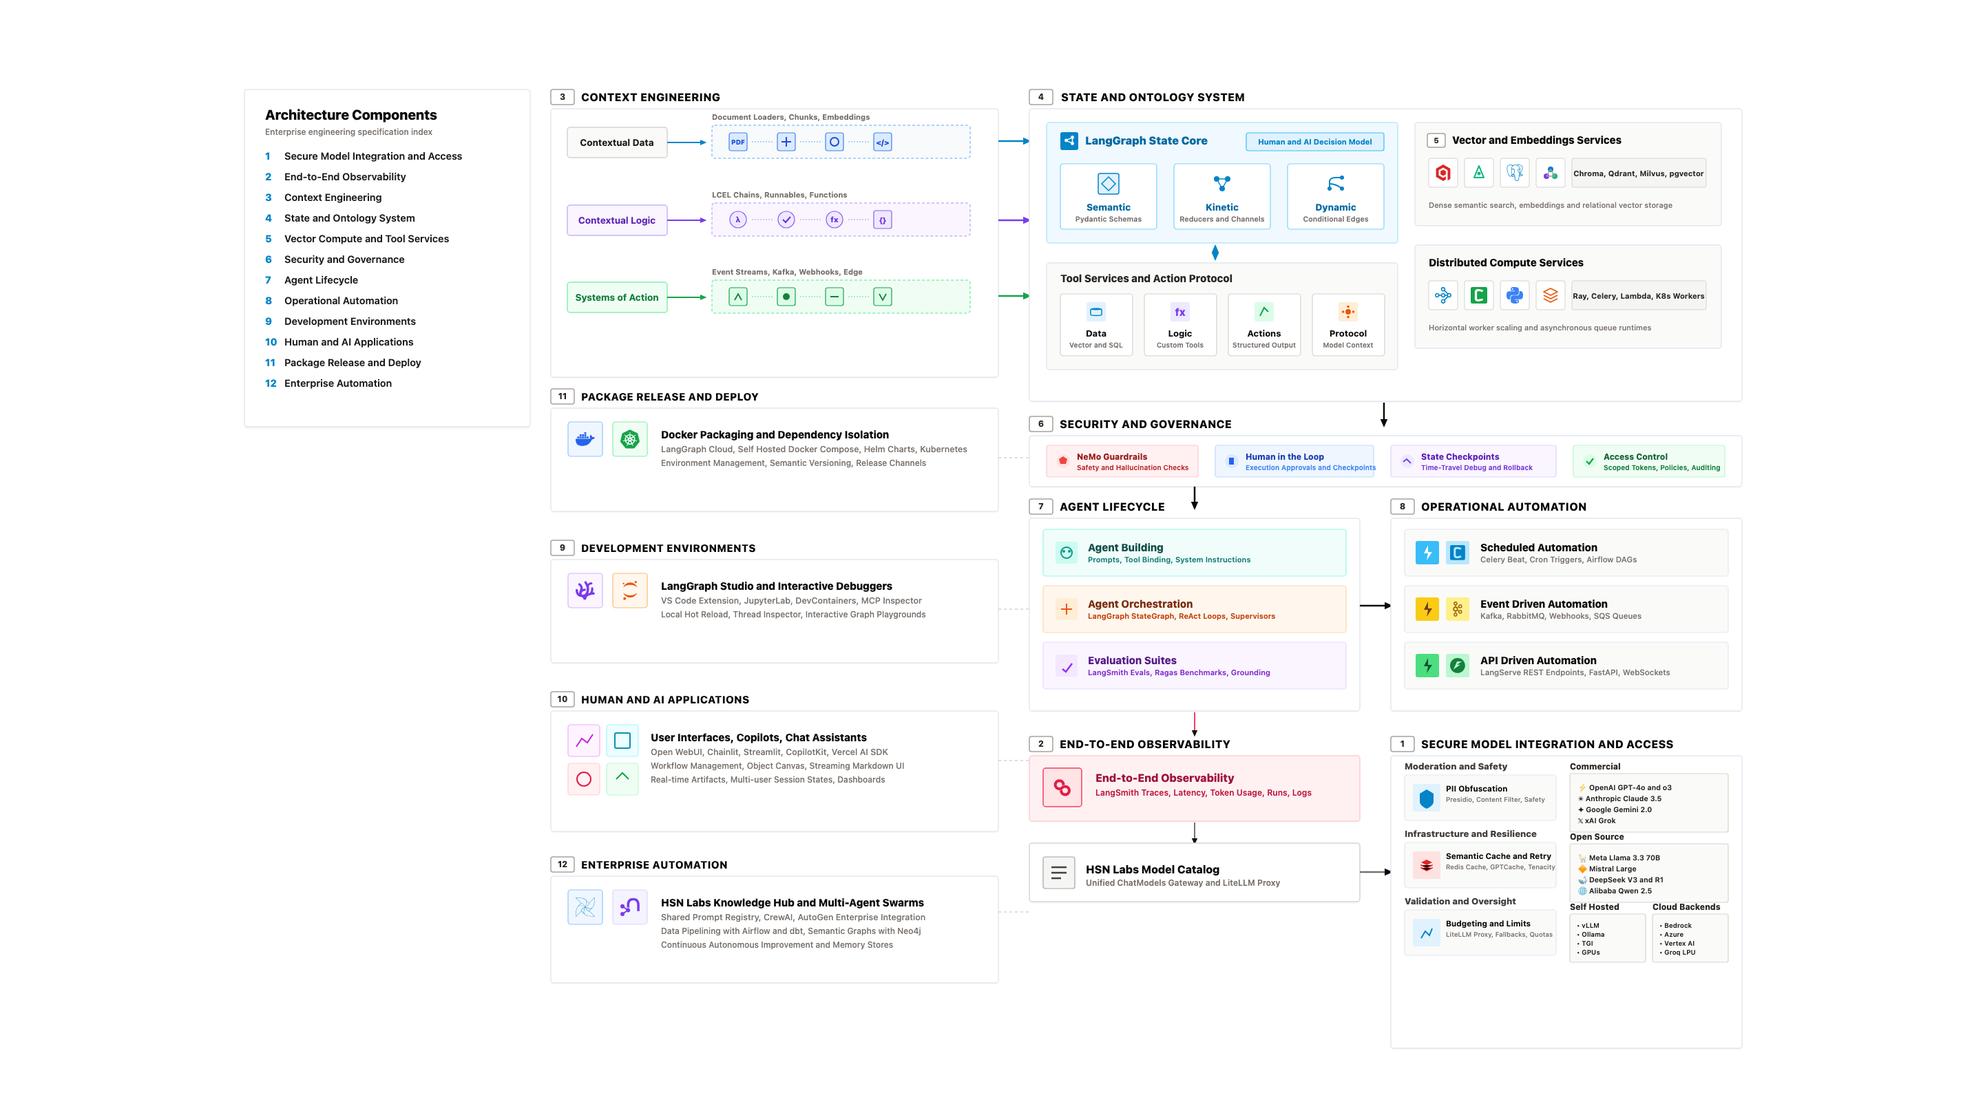
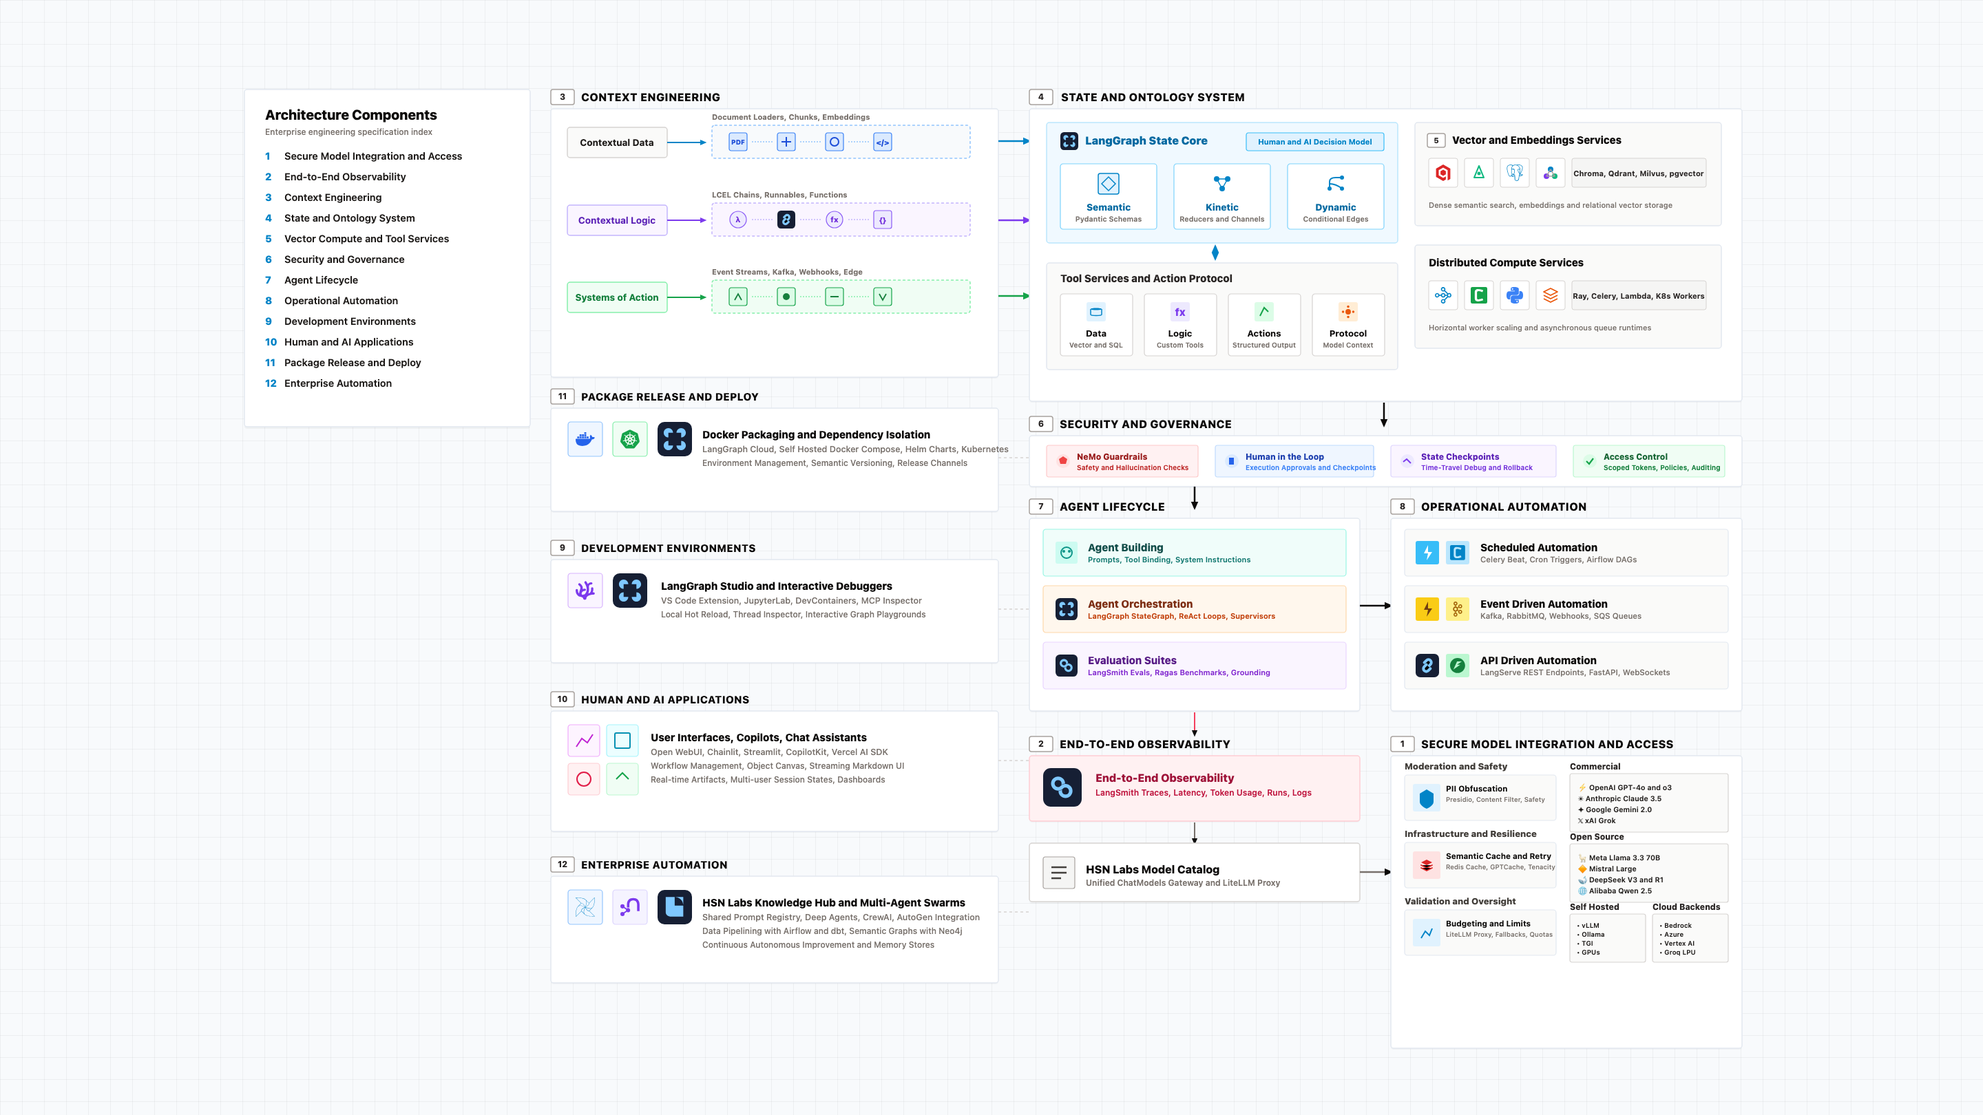
feat(brand): integrate official LangChain, LangGraph, LangSmith & Deep Agents brand assets

diff --git a/architecture.html b/architecture.html
@@ -176,8 +176,11 @@
         </g>
         <line x1="58" y1="26" x2="88" y2="26" stroke="#c4b5fd" stroke-width="1.5" stroke-dasharray="2,2"/>
         <g transform="translate(95, 13)">
-          <circle cx="13" cy="13" r="12" fill="#ede9fe" stroke="#8b5cf6" stroke-width="1.2"/>
-          <path d="M 8 13 L 12 17 L 19 9" fill="none" stroke="#6d28d9" stroke-width="2"/>
+          <rect x="0" y="0" width="26" height="26" rx="5.2" fill="#161F34"/>
+          <g transform="translate(13, 13) scale(0.26) translate(-50, -50)">
+            <path d="M54.2612 54.2583L63.1942 45.3253C67.8979 40.6215 67.8979 32.9952 63.1942 28.2914C58.4904 23.5877 50.8641 23.5877 46.1603 28.2914L37.2273 37.2244" stroke="#7FC8FF" stroke-width="12.0389" stroke-linecap="round" stroke-linejoin="round"/>
+            <path d="M45.7427 45.7411L36.8098 54.6741C32.106 59.3779 32.106 67.0042 36.8098 71.7079C41.5135 76.4117 49.1398 76.4117 53.8436 71.7079L62.7766 62.775" stroke="#7FC8FF" stroke-width="12.0389" stroke-linecap="round" stroke-linejoin="round"/>
+          </g>
         </g>
         <line x1="128" y1="26" x2="158" y2="26" stroke="#c4b5fd" stroke-width="1.5" stroke-dasharray="2,2"/>
         <g transform="translate(165, 13)">
@@ -243,12 +246,9 @@
     <g transform="translate(25, 48)">
       <rect x="0" y="0" width="510" height="175" rx="4" fill="#f0f9ff" stroke="#bae6fd" stroke-width="1.5"/>
       <g transform="translate(20, 14)">
-        <rect width="26" height="26" rx="3" fill="#0284c7"/>
-        <g transform="translate(1, 0) scale(0.75)">
-          <circle cx="10" cy="16" r="3.2" fill="#ffffff"/>
-          <circle cx="22" cy="10" r="3.2" fill="#ffffff"/>
-          <circle cx="22" cy="22" r="3.2" fill="#ffffff"/>
-          <path d="M12.5 14.5L19.5 11.5M12.5 17.5L19.5 20.5M22 13V19" stroke="#ffffff" stroke-width="2" stroke-linecap="round"/>
+        <rect width="26" height="26" rx="5.2" fill="#161F34"/>
+        <g transform="translate(13, 13) scale(0.28) translate(-50, -50)">
+          <path d="M32.1494 67.8578H45.2266C45.2246 75.0776 39.3716 80.9299 32.1514 80.9301C24.9301 80.9299 19.0756 75.0761 19.0752 67.8549C19.0752 60.634 24.9288 54.7799 32.1494 54.7787V67.8578ZM67.8691 54.7787C75.0906 54.7789 80.9443 60.6334 80.9443 67.8549C80.944 75.076 75.0904 80.9299 67.8691 80.9301C60.6488 80.9299 54.7949 75.0777 54.793 67.8578H67.8594V54.7787C67.8626 54.7787 67.8659 54.7787 67.8691 54.7787ZM67.8691 19.0756C75.0906 19.0758 80.9443 24.9303 80.9443 32.1517C80.944 39.373 75.0904 45.2267 67.8691 45.2269C67.8659 45.2269 67.8626 45.226 67.8594 45.226V32.1478H54.793C54.795 24.928 60.6489 19.0757 67.8691 19.0756ZM32.1514 19.0756C39.3716 19.0757 45.2246 24.928 45.2266 32.1478H32.1494V45.226C24.929 45.2248 19.0755 39.3724 19.0752 32.1517C19.0752 24.9302 24.9299 19.0757 32.1514 19.0756Z" fill="#7FC8FF"/>
         </g>
       </g>
       <text x="56" y="32" font-size="16" font-weight="900" fill="#0369a1">LangGraph State Core</text>
@@ -527,8 +527,10 @@
     <g transform="translate(20, 126)">
       <rect x="0" y="0" width="440" height="68" rx="4" fill="#fff7ed" stroke="#fed7aa" stroke-width="1.2"/>
       <g transform="translate(18, 18)">
-        <rect x="0" y="0" width="32" height="32" rx="3" fill="#ffedd5"/>
-        <path d="M 8 16 L 24 16 M 16 8 L 16 24" stroke="#ea580c" stroke-width="2"/>
+        <rect x="0" y="0" width="32" height="32" rx="6.4" fill="#161F34"/>
+        <g transform="translate(16, 16) scale(0.34) translate(-50, -50)">
+          <path d="M32.1494 67.8578H45.2266C45.2246 75.0776 39.3716 80.9299 32.1514 80.9301C24.9301 80.9299 19.0756 75.0761 19.0752 67.8549C19.0752 60.634 24.9288 54.7799 32.1494 54.7787V67.8578ZM67.8691 54.7787C75.0906 54.7789 80.9443 60.6334 80.9443 67.8549C80.944 75.076 75.0904 80.9299 67.8691 80.9301C60.6488 80.9299 54.7949 75.0777 54.793 67.8578H67.8594V54.7787C67.8626 54.7787 67.8659 54.7787 67.8691 54.7787ZM67.8691 19.0756C75.0906 19.0758 80.9443 24.9303 80.9443 32.1517C80.944 39.373 75.0904 45.2267 67.8691 45.2269C67.8659 45.2269 67.8626 45.226 67.8594 45.226V32.1478H54.793C54.795 24.928 60.6489 19.0757 67.8691 19.0756ZM32.1514 19.0756C39.3716 19.0757 45.2246 24.928 45.2266 32.1478H32.1494V45.226C24.929 45.2248 19.0755 39.3724 19.0752 32.1517C19.0752 24.9302 24.9299 19.0757 32.1514 19.0756Z" fill="#7FC8FF"/>
+        </g>
       </g>
       <text x="65" y="32" font-size="15" font-weight="800" fill="#7c2d12">Agent Orchestration</text>
       <text x="65" y="48" font-size="11" font-weight="600" fill="#c2410c">LangGraph StateGraph, ReAct Loops, Supervisors</text>
@@ -538,8 +540,10 @@
     <g transform="translate(20, 208)">
       <rect x="0" y="0" width="440" height="68" rx="4" fill="#faf5ff" stroke="#e9d5ff" stroke-width="1.2"/>
       <g transform="translate(18, 18)">
-        <rect x="0" y="0" width="32" height="32" rx="3" fill="#f3e8ff"/>
-        <path d="M 10 21 L 15 25 L 24 13" fill="none" stroke="#9333ea" stroke-width="2.5"/>
+        <rect x="0" y="0" width="32" height="32" rx="6.4" fill="#161F34"/>
+        <g transform="translate(16, 16) scale(0.30) translate(-50, -50)">
+          <path fill-rule="evenodd" clip-rule="evenodd" d="M37.6588 59.3116C32.3594 59.3774 27.0391 57.3911 22.9995 53.3514C15.051 45.403 15.051 32.4957 22.9995 24.5472C30.9486 16.5988 43.8552 16.5988 51.8037 24.5472C55.8433 28.5869 57.8303 33.9072 57.7638 39.2066C53.8813 39.4303 50.0487 40.7067 46.732 43.0351C48.3616 39.3064 47.6525 34.7978 44.6031 31.7485C40.6285 27.7739 34.1753 27.7739 30.2007 31.7485C26.2261 35.7224 26.2261 42.1756 30.2007 46.1502C33.25 49.1996 37.7586 49.9094 41.4873 48.2798C42.6182 47.7853 43.6779 47.0755 44.6031 46.1502C48.2522 42.5011 52.9457 40.5273 57.7257 40.2288C58.0658 40.2074 58.4065 40.1949 58.7479 40.1901C64.0467 40.1243 69.3669 42.1105 73.4066 46.1502C81.3558 54.0987 81.3558 67.0059 73.4066 74.9544C65.4581 82.9029 52.5516 82.9029 44.6031 74.9544C40.5634 70.9147 38.5765 65.5945 38.643 60.295C42.5254 60.0713 46.3574 58.7949 49.6747 56.4666C48.0451 60.1953 48.7543 64.7039 51.8037 67.7532C55.7782 71.7278 62.2315 71.7278 66.2061 67.7532C70.18 63.7793 70.18 57.326 66.2061 53.3514C63.1568 50.3021 58.6482 49.5922 54.9195 51.2218C53.7885 51.7163 52.7289 52.4262 51.8037 53.3514C48.1546 57.0005 43.4611 58.9743 38.6811 59.2728C38.341 59.2943 37.9996 59.3068 37.6588 59.3116Z" fill="#7FC8FF"/>
+        </g>
       </g>
       <text x="65" y="32" font-size="15" font-weight="800" fill="#581c87">Evaluation Suites</text>
       <text x="65" y="48" font-size="11" font-weight="600" fill="#7e22ce">LangSmith Evals, Ragas Benchmarks, Grounding</text>
@@ -597,8 +601,11 @@
     <g transform="translate(20, 208)">
       <rect x="0" y="0" width="470" height="68" rx="4" fill="#fafaf9" stroke="#e2e8f0" stroke-width="1.2"/>
       <g transform="translate(16, 17)">
-        <rect x="0" y="0" width="34" height="34" rx="3" fill="#4ade80"/>
-        <path d="M 18 6 L 12 18 L 18 18 L 16 28 L 24 16 L 18 16 Z" fill="#14532d"/>
+        <rect x="0" y="0" width="34" height="34" rx="6.8" fill="#161F34"/>
+        <g transform="translate(17, 17) scale(0.34) translate(-50, -50)">
+          <path d="M54.2612 54.2583L63.1942 45.3253C67.8979 40.6215 67.8979 32.9952 63.1942 28.2914C58.4904 23.5877 50.8641 23.5877 46.1603 28.2914L37.2273 37.2244" stroke="#7FC8FF" stroke-width="12.0389" stroke-linecap="round" stroke-linejoin="round"/>
+          <path d="M45.7427 45.7411L36.8098 54.6741C32.106 59.3779 32.106 67.0042 36.8098 71.7079C41.5135 76.4117 49.1398 76.4117 53.8436 71.7079L62.7766 62.775" stroke="#7FC8FF" stroke-width="12.0389" stroke-linecap="round" stroke-linejoin="round"/>
+        </g>
       </g>
       <g transform="translate(60, 17)">
         <rect x="0" y="0" width="34" height="34" rx="3" fill="#bbf7d0"/>
@@ -624,9 +631,9 @@
     <rect x="0" y="30" width="480" height="95" rx="4" fill="rgba(12,10,9,0.03)"/>
     <rect x="0" y="28" width="480" height="95" rx="4" fill="#fff1f2" stroke="#fecdd3" stroke-width="1.5"/>
     <g transform="translate(20, 46)">
-      <rect x="0" y="0" width="56" height="56" rx="4" fill="#ffe4e6" stroke="#f43f5e" stroke-width="1.5"/>
-      <g transform="translate(9, 9) scale(0.39)">
-        <path fill-rule="evenodd" clip-rule="evenodd" d="M37.6588 59.3116C32.3594 59.3774 27.0391 57.3911 22.9995 53.3514C15.051 45.403 15.051 32.4957 22.9995 24.5472C30.9486 16.5988 43.8552 16.5988 51.8037 24.5472C55.8433 28.5869 57.8303 33.9072 57.7638 39.2066C53.8813 39.4303 50.0487 40.7067 46.732 43.0351C48.3616 39.3064 47.6525 34.7978 44.6031 31.7485C40.6285 27.7739 34.1753 27.7739 30.2007 31.7485C26.2261 35.7224 26.2261 42.1756 30.2007 46.1502C33.25 49.1996 37.7586 49.9094 41.4873 48.2798C42.6182 47.7853 43.6779 47.0755 44.6031 46.1502C48.2522 42.5011 52.9457 40.5273 57.7257 40.2288C58.0658 40.2074 58.4065 40.1949 58.7479 40.1901C64.0467 40.1243 69.3669 42.1105 73.4066 46.1502C81.3558 54.0987 81.3558 67.0059 73.4066 74.9544C65.4581 82.9029 52.5516 82.9029 44.6031 74.9544C40.5634 70.9147 38.5765 65.5945 38.643 60.295C42.5254 60.0713 46.3574 58.7949 49.6747 56.4666C48.0451 60.1953 48.7543 64.7039 51.8037 67.7532C55.7782 71.7278 62.2315 71.7278 66.2061 67.7532C70.18 63.7793 70.18 57.326 66.2061 53.3514C63.1568 50.3021 58.6482 49.5922 54.9195 51.2218C53.7885 51.7163 52.7289 52.4262 51.8037 53.3514C48.1546 57.0005 43.4611 58.9743 38.6811 59.2728C38.341 59.2943 37.9996 59.3068 37.6588 59.3116Z" fill="#e11d48"/>
+      <rect x="0" y="0" width="56" height="56" rx="11.2" fill="#161F34"/>
+      <g transform="translate(28, 28) scale(0.50) translate(-50, -50)">
+        <path fill-rule="evenodd" clip-rule="evenodd" d="M37.6588 59.3116C32.3594 59.3774 27.0391 57.3911 22.9995 53.3514C15.051 45.403 15.051 32.4957 22.9995 24.5472C30.9486 16.5988 43.8552 16.5988 51.8037 24.5472C55.8433 28.5869 57.8303 33.9072 57.7638 39.2066C53.8813 39.4303 50.0487 40.7067 46.732 43.0351C48.3616 39.3064 47.6525 34.7978 44.6031 31.7485C40.6285 27.7739 34.1753 27.7739 30.2007 31.7485C26.2261 35.7224 26.2261 42.1756 30.2007 46.1502C33.25 49.1996 37.7586 49.9094 41.4873 48.2798C42.6182 47.7853 43.6779 47.0755 44.6031 46.1502C48.2522 42.5011 52.9457 40.5273 57.7257 40.2288C58.0658 40.2074 58.4065 40.1949 58.7479 40.1901C64.0467 40.1243 69.3669 42.1105 73.4066 46.1502C81.3558 54.0987 81.3558 67.0059 73.4066 74.9544C65.4581 82.9029 52.5516 82.9029 44.6031 74.9544C40.5634 70.9147 38.5765 65.5945 38.643 60.295C42.5254 60.0713 46.3574 58.7949 49.6747 56.4666C48.0451 60.1953 48.7543 64.7039 51.8037 67.7532C55.7782 71.7278 62.2315 71.7278 66.2061 67.7532C70.18 63.7793 70.18 57.326 66.2061 53.3514C63.1568 50.3021 58.6482 49.5922 54.9195 51.2218C53.7885 51.7163 52.7289 52.4262 51.8037 53.3514C48.1546 57.0005 43.4611 58.9743 38.6811 59.2728C38.341 59.2943 37.9996 59.3068 37.6588 59.3116Z" fill="#7FC8FF"/>
       </g>
     </g>
     <text x="96" y="66" font-size="16" font-weight="800" fill="#9f1239">End-to-End Observability</text>
@@ -777,9 +784,15 @@
           <path d="M10.204 14.35l.007.01-.999 2.413a5.171 5.171 0 0 1-2.075-2.597l2.578-.437.004.005a.44.44 0 0 1 .484.606zm-.833-2.129a.44.44 0 0 0 .173-.756l.002-.011L7.585 9.7a5.143 5.143 0 0 0-.73 3.255l2.514-.725.002-.009zm1.145-1.98a.44.44 0 0 0 .699-.337l.01-.005.15-2.62a5.144 5.144 0 0 0-3.01 1.442l2.147 1.523.004-.002zm.76 2.75l.723.349.722-.347.18-.78-.5-.623h-.804l-.5.623.179.779zm1.5-3.095a.44.44 0 0 0 .7.336l.008.003 2.134-1.513a5.188 5.188 0 0 0-2.992-1.442l.148 2.615.002.001zm10.876 5.97l-5.773 7.181a1.6 1.6 0 0 1-1.248.594l-9.261.003a1.6 1.6 0 0 1-1.247-.596l-5.776-7.18a1.583 1.583 0 0 1-.307-1.34L2.1 5.573c.108-.47.425-.864.863-1.073L11.305.513a1.606 1.606 0 0 1 1.385 0l8.345 3.985c.438.209.755.604.863 1.073l2.062 8.955c.108.47-.005.963-.308 1.34zm-3.289-2.057c-.042-.01-.103-.026-.145-.034-.174-.033-.315-.025-.479-.038-.35-.037-.638-.067-.895-.148-.105-.04-.18-.165-.216-.216l-.201-.059a6.45 6.45 0 0 0-.105-2.332 6.465 6.465 0 0 0-.936-2.163c.052-.047.15-.133.177-.159.008-.09.001-.183.094-.282.197-.185.444-.338.743-.522.142-.084.273-.137.415-.242.032-.024.076-.062.11-.089.24-.191.295-.52.123-.736-.172-.216-.506-.236-.745-.045-.034.027-.08.062-.111.088-.134.116-.217.23-.33.35-.246.25-.45.458-.673.609-.097.056-.239.037-.303.033l-.19.135a6.545 6.545 0 0 0-4.146-2.003l-.012-.223c-.065-.062-.143-.115-.163-.25-.022-.268.015-.557.057-.905.023-.163.061-.298.068-.475.001-.04-.001-.099-.001-.142 0-.306-.224-.555-.5-.555-.275 0-.499.249-.499.555l.001.014c0 .041-.002.092 0 .128.006.177.044.312.067.475.042.348.078.637.056.906a.545.545 0 0 1-.162.258l-.012.211a6.424 6.424 0 0 0-4.166 2.003 8.373 8.373 0 0 1-.18-.128c-.09.012-.18.04-.297-.029-.223-.15-.427-.358-.673-.608-.113-.12-.195-.234-.329-.349-.03-.026-.077-.062-.111-.088a.594.594 0 0 0-.348-.132.481.481 0 0 0-.398.176c-.172.216-.117.546.123.737l.007.005.104.083c.142.105.272.159.414.242.299.185.546.338.743.522.076.082.09.226.1.288l.16.143a6.462 6.462 0 0 0-1.02 4.506l-.208.06c-.055.072-.133.184-.215.217-.257.081-.546.11-.895.147-.164.014-.305.006-.48.039-.037.007-.09.02-.133.03l-.004.002-.007.002c-.295.071-.484.342-.423.608.061.267.349.429.645.365l.007-.001.01-.003.129-.029c.17-.046.294-.113.448-.172.33-.118.604-.217.87-.256.112-.009.23.069.288.101l.217-.037a6.5 6.5 0 0 0 2.88 3.596l-.09.218c.033.084.069.199.044.282-.097.252-.263.517-.452.813-.091.136-.185.242-.268.399-.02.037-.045.095-.064.134-.128.275-.034.591.213.71.248.12.556-.007.69-.282v-.002c.02-.039.046-.09.062-.127.07-.162.094-.301.144-.458.132-.332.205-.68.387-.897.05-.06.13-.082.215-.105l.113-.205a6.453 6.453 0 0 0 4.609.012l.106.192c.086.028.18.042.256.155.136.232.229.507.342.84.05.156.074.295.145.457.016.037.043.09.062.129.133.276.442.402.69.282.247-.118.341-.435.213-.71-.02-.039-.045-.096-.065-.134-.083-.156-.177-.261-.268-.398-.19-.296-.346-.541-.443-.793-.04-.13.007-.21.038-.294-.018-.022-.059-.144-.083-.202a6.499 6.499 0 0 0 2.88-3.622c.064.01.176.03.213.038.075-.05.144-.114.28-.104.266.039.54.138.87.256.154.06.277.128.448.173.036.01.088.019.13.028l.009.003.007.001c.297.064.584-.098.645-.365.06-.266-.128-.537-.423-.608zM16.4 9.701l-1.95 1.746v.005a.44.44 0 0 0 .173.757l.003.01 2.526.728a5.199 5.199 0 0 0-.108-1.674A5.208 5.208 0 0 0 16.4 9.7zm-4.013 5.325a.437.437 0 0 0-.404-.232.44.44 0 0 0-.372.233h-.002l-1.268 2.292a5.164 5.164 0 0 0 3.326.003l-1.27-2.296h-.01zm1.888-1.293a.44.44 0 0 0-.27.036.44.44 0 0 0-.214.572l-.003.004 1.01 2.438a5.15 5.15 0 0 0 2.081-2.615l-2.6-.44-.004.005z" fill="#16a34a"/>
         </g>
       </g>
-      <text x="135" y="24" font-size="15" font-weight="800" fill="#0c0a09">Docker Packaging and Dependency Isolation</text>
-      <text x="135" y="44" font-size="12.5" font-weight="500" fill="#78716c">LangGraph Cloud, Self Hosted Docker Compose, Helm Charts, Kubernetes</text>
-      <text x="135" y="64" font-size="12" font-weight="500" fill="#78716c">Environment Management, Semantic Versioning, Release Channels</text>
+      <g transform="translate(130, 0)">
+        <rect x="0" y="0" width="50" height="50" rx="10" fill="#161F34"/>
+        <g transform="translate(25, 25) scale(0.52) translate(-50, -50)">
+          <path d="M32.1494 67.8578H45.2266C45.2246 75.0776 39.3716 80.9299 32.1514 80.9301C24.9301 80.9299 19.0756 75.0761 19.0752 67.8549C19.0752 60.634 24.9288 54.7799 32.1494 54.7787V67.8578ZM67.8691 54.7787C75.0906 54.7789 80.9443 60.6334 80.9443 67.8549C80.944 75.076 75.0904 80.9299 67.8691 80.9301C60.6488 80.9299 54.7949 75.0777 54.793 67.8578H67.8594V54.7787C67.8626 54.7787 67.8659 54.7787 67.8691 54.7787ZM67.8691 19.0756C75.0906 19.0758 80.9443 24.9303 80.9443 32.1517C80.944 39.373 75.0904 45.2267 67.8691 45.2269C67.8659 45.2269 67.8626 45.226 67.8594 45.226V32.1478H54.793C54.795 24.928 60.6489 19.0757 67.8691 19.0756ZM32.1514 19.0756C39.3716 19.0757 45.2246 24.928 45.2266 32.1478H32.1494V45.226C24.929 45.2248 19.0755 39.3724 19.0752 32.1517C19.0752 24.9302 24.9299 19.0757 32.1514 19.0756Z" fill="#7FC8FF"/>
+        </g>
+      </g>
+      <text x="195" y="24" font-size="15" font-weight="800" fill="#0c0a09">Docker Packaging and Dependency Isolation</text>
+      <text x="195" y="44" font-size="12.5" font-weight="500" fill="#78716c">LangGraph Cloud, Self Hosted Docker Compose, Helm Charts, Kubernetes</text>
+      <text x="195" y="64" font-size="12" font-weight="500" fill="#78716c">Environment Management, Semantic Versioning, Release Channels</text>
     </g>
   </g>
 
@@ -800,9 +813,9 @@
         </g>
       </g>
       <g transform="translate(65, 0)">
-        <rect x="0" y="0" width="50" height="50" rx="4" fill="#fff7ed" stroke="#fdba74" stroke-width="1.2"/>
-        <g transform="translate(11, 11) scale(1.16)">
-          <path d="M7.157 22.201A1.784 1.799 0 0 1 5.374 24a1.784 1.799 0 0 1-1.784-1.799 1.784 1.799 0 0 1 1.784-1.799 1.784 1.799 0 0 1 1.783 1.799zM20.582 1.427a1.415 1.427 0 0 1-1.415 1.428 1.415 1.427 0 0 1-1.416-1.428A1.415 1.427 0 0 1 19.167 0a1.415 1.427 0 0 1 1.415 1.427zM4.992 3.336A1.047 1.056 0 0 1 3.946 4.39a1.047 1.056 0 0 1-1.047-1.055A1.047 1.056 0 0 1 3.946 2.28a1.047 1.056 0 0 1 1.046 1.056zm7.336 1.517c3.769 0 7.06 1.38 8.768 3.424a9.363 9.363 0 0 0-3.393-4.547 9.238 9.238 0 0 0-5.377-1.728A9.238 9.238 0 0 0 6.95 3.73a9.363 9.363 0 0 0-3.394 4.547c1.713-2.04 5.004-3.424 8.772-3.424zm.001 13.295c-3.768 0-7.06-1.381-8.768-3.425a9.363 9.363 0 0 0 3.394 4.547A9.238 9.238 0 0 0 12.33 21a9.238 9.238 0 0 0 5.377-1.729 9.363 9.363 0 0 0 3.393-4.547c-1.712 2.044-5.003 3.425-8.772 3.425Z" fill="#ea580c"/>
+        <rect x="0" y="0" width="50" height="50" rx="10" fill="#161F34"/>
+        <g transform="translate(25, 25) scale(0.52) translate(-50, -50)">
+          <path d="M32.1494 67.8578H45.2266C45.2246 75.0776 39.3716 80.9299 32.1514 80.9301C24.9301 80.9299 19.0756 75.0761 19.0752 67.8549C19.0752 60.634 24.9288 54.7799 32.1494 54.7787V67.8578ZM67.8691 54.7787C75.0906 54.7789 80.9443 60.6334 80.9443 67.8549C80.944 75.076 75.0904 80.9299 67.8691 80.9301C60.6488 80.9299 54.7949 75.0777 54.793 67.8578H67.8594V54.7787C67.8626 54.7787 67.8659 54.7787 67.8691 54.7787ZM67.8691 19.0756C75.0906 19.0758 80.9443 24.9303 80.9443 32.1517C80.944 39.373 75.0904 45.2267 67.8691 45.2269C67.8659 45.2269 67.8626 45.226 67.8594 45.226V32.1478H54.793C54.795 24.928 60.6489 19.0757 67.8691 19.0756ZM32.1514 19.0756C39.3716 19.0757 45.2246 24.928 45.2266 32.1478H32.1494V45.226C24.929 45.2248 19.0755 39.3724 19.0752 32.1517C19.0752 24.9302 24.9299 19.0757 32.1514 19.0756Z" fill="#7FC8FF"/>
         </g>
       </g>
       <text x="135" y="24" font-size="15" font-weight="800" fill="#0c0a09">LangGraph Studio and Interactive Debuggers</text>
@@ -866,10 +879,17 @@
           <path d="M9.629 13.227c-.593 0-1.139.2-1.58.533l-2.892-1.976a2.61 2.61 0 0 0 .101-.711 2.633 2.633 0 0 0-2.629-2.629A2.632 2.632 0 0 0 0 11.073a2.632 2.632 0 0 0 2.629 2.629c.593 0 1.139-.2 1.579-.533L7.1 15.145c-.063.226-.1.465-.1.711 0 .247.037.484.1.711l-2.892 1.976a2.608 2.608 0 0 0-1.579-.533A2.632 2.632 0 0 0 0 20.639a2.632 2.632 0 0 0 2.629 2.629 2.632 2.632 0 0 0 2.629-2.629c0-.247-.037-.485-.101-.711l2.892-1.976c.441.333.987.533 1.58.533a2.633 2.633 0 0 0 2.629-2.629c0-1.45-1.18-2.629-2.629-2.629ZM16.112.732c-4.72 0-7.888 2.748-7.888 8.082v3.802a3.525 3.525 0 0 1 3.071.008v-3.81c0-3.459 1.907-5.237 4.817-5.237s4.817 1.778 4.817 5.237v8.309H24V8.814C24 3.448 20.832.732 16.112.732Z" fill="#7c3aed"/>
         </g>
       </g>
-      <text x="135" y="24" font-size="15" font-weight="800" fill="#0c0a09">HSN Labs Knowledge Hub and Multi-Agent Swarms</text>
-      <text x="135" y="44" font-size="12.5" font-weight="500" fill="#78716c">Shared Prompt Registry, CrewAI, AutoGen Enterprise Integration</text>
-      <text x="135" y="64" font-size="12" font-weight="500" fill="#78716c">Data Pipelining with Airflow and dbt, Semantic Graphs with Neo4j</text>
-      <text x="135" y="84" font-size="12" font-weight="500" fill="#78716c">Continuous Autonomous Improvement and Memory Stores</text>
+      <g transform="translate(130, 0)">
+        <rect x="0" y="0" width="50" height="50" rx="10" fill="#161F34"/>
+        <g transform="translate(25, 25) scale(0.52) translate(-50, -50)">
+          <path d="M73.7371 42.5435V21.8158H52.3481L52.3482 22.3079C63.4288 22.5936 72.4574 31.6684 73.3601 42.5435H73.7371Z" fill="#7FC8FF"/>
+          <path d="M49.7646 21.816H24.729V64.0228C24.729 71.817 30.7399 76.6658 40.4175 76.6658H73.7482V45.8297H49.7646V21.816Z" fill="#7FC8FF"/>
+        </g>
+      </g>
+      <text x="195" y="24" font-size="15" font-weight="800" fill="#0c0a09">HSN Labs Knowledge Hub and Multi-Agent Swarms</text>
+      <text x="195" y="44" font-size="12.5" font-weight="500" fill="#78716c">Shared Prompt Registry, Deep Agents, CrewAI, AutoGen Integration</text>
+      <text x="195" y="64" font-size="12" font-weight="500" fill="#78716c">Data Pipelining with Airflow and dbt, Semantic Graphs with Neo4j</text>
+      <text x="195" y="84" font-size="12" font-weight="500" fill="#78716c">Continuous Autonomous Improvement and Memory Stores</text>
     </g>
   </g>
 
